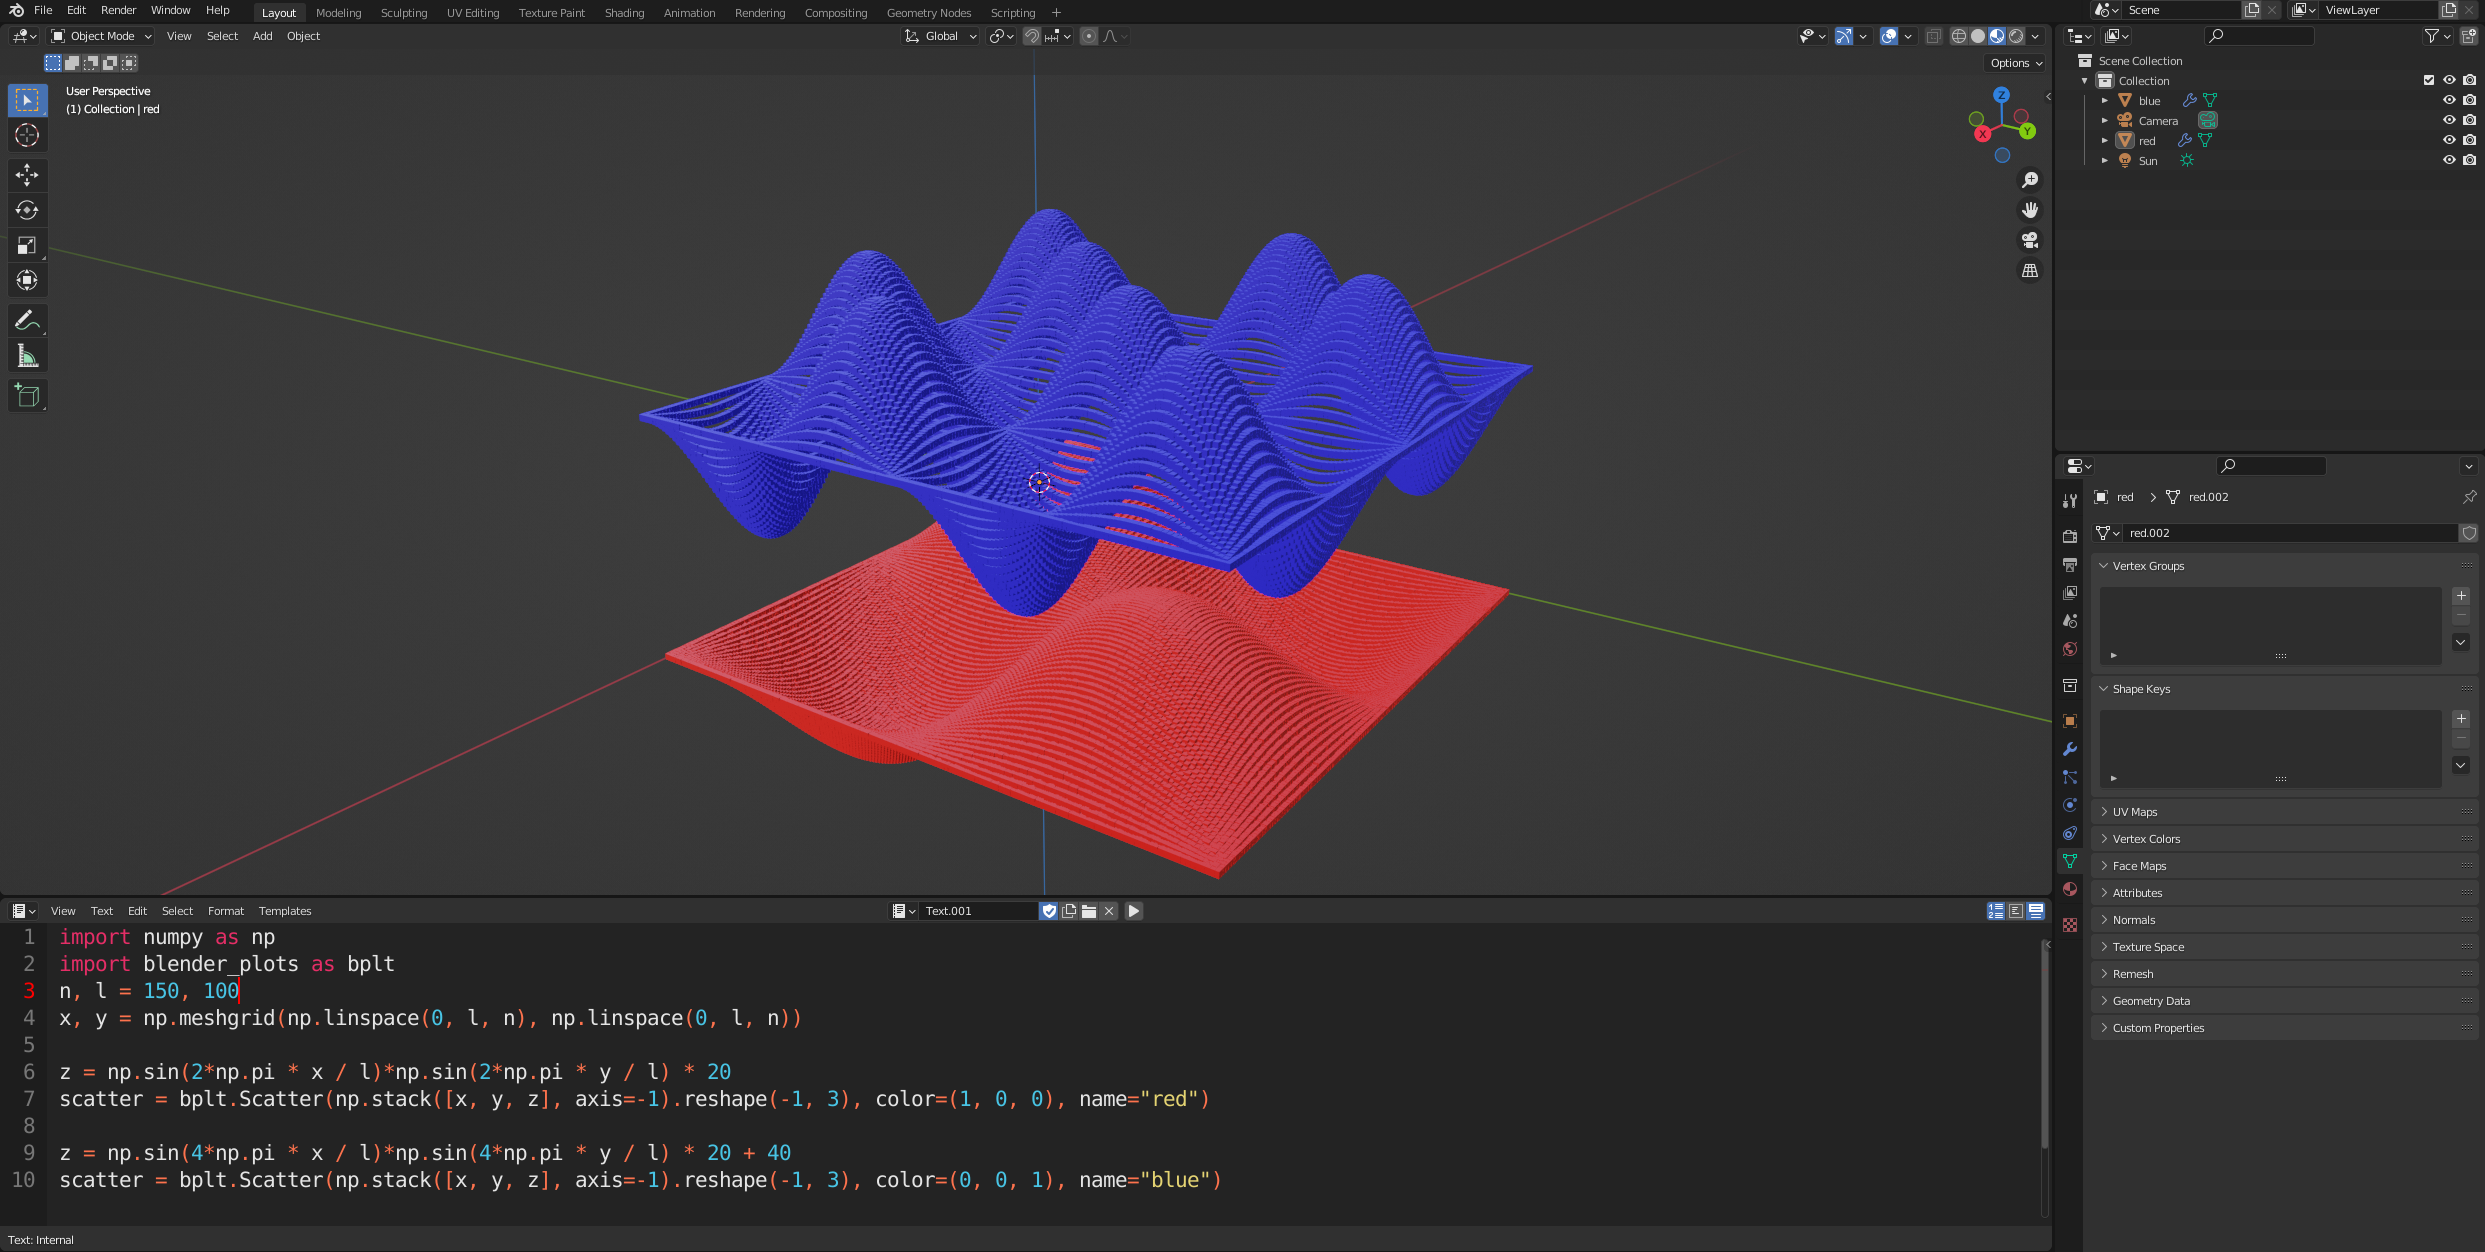
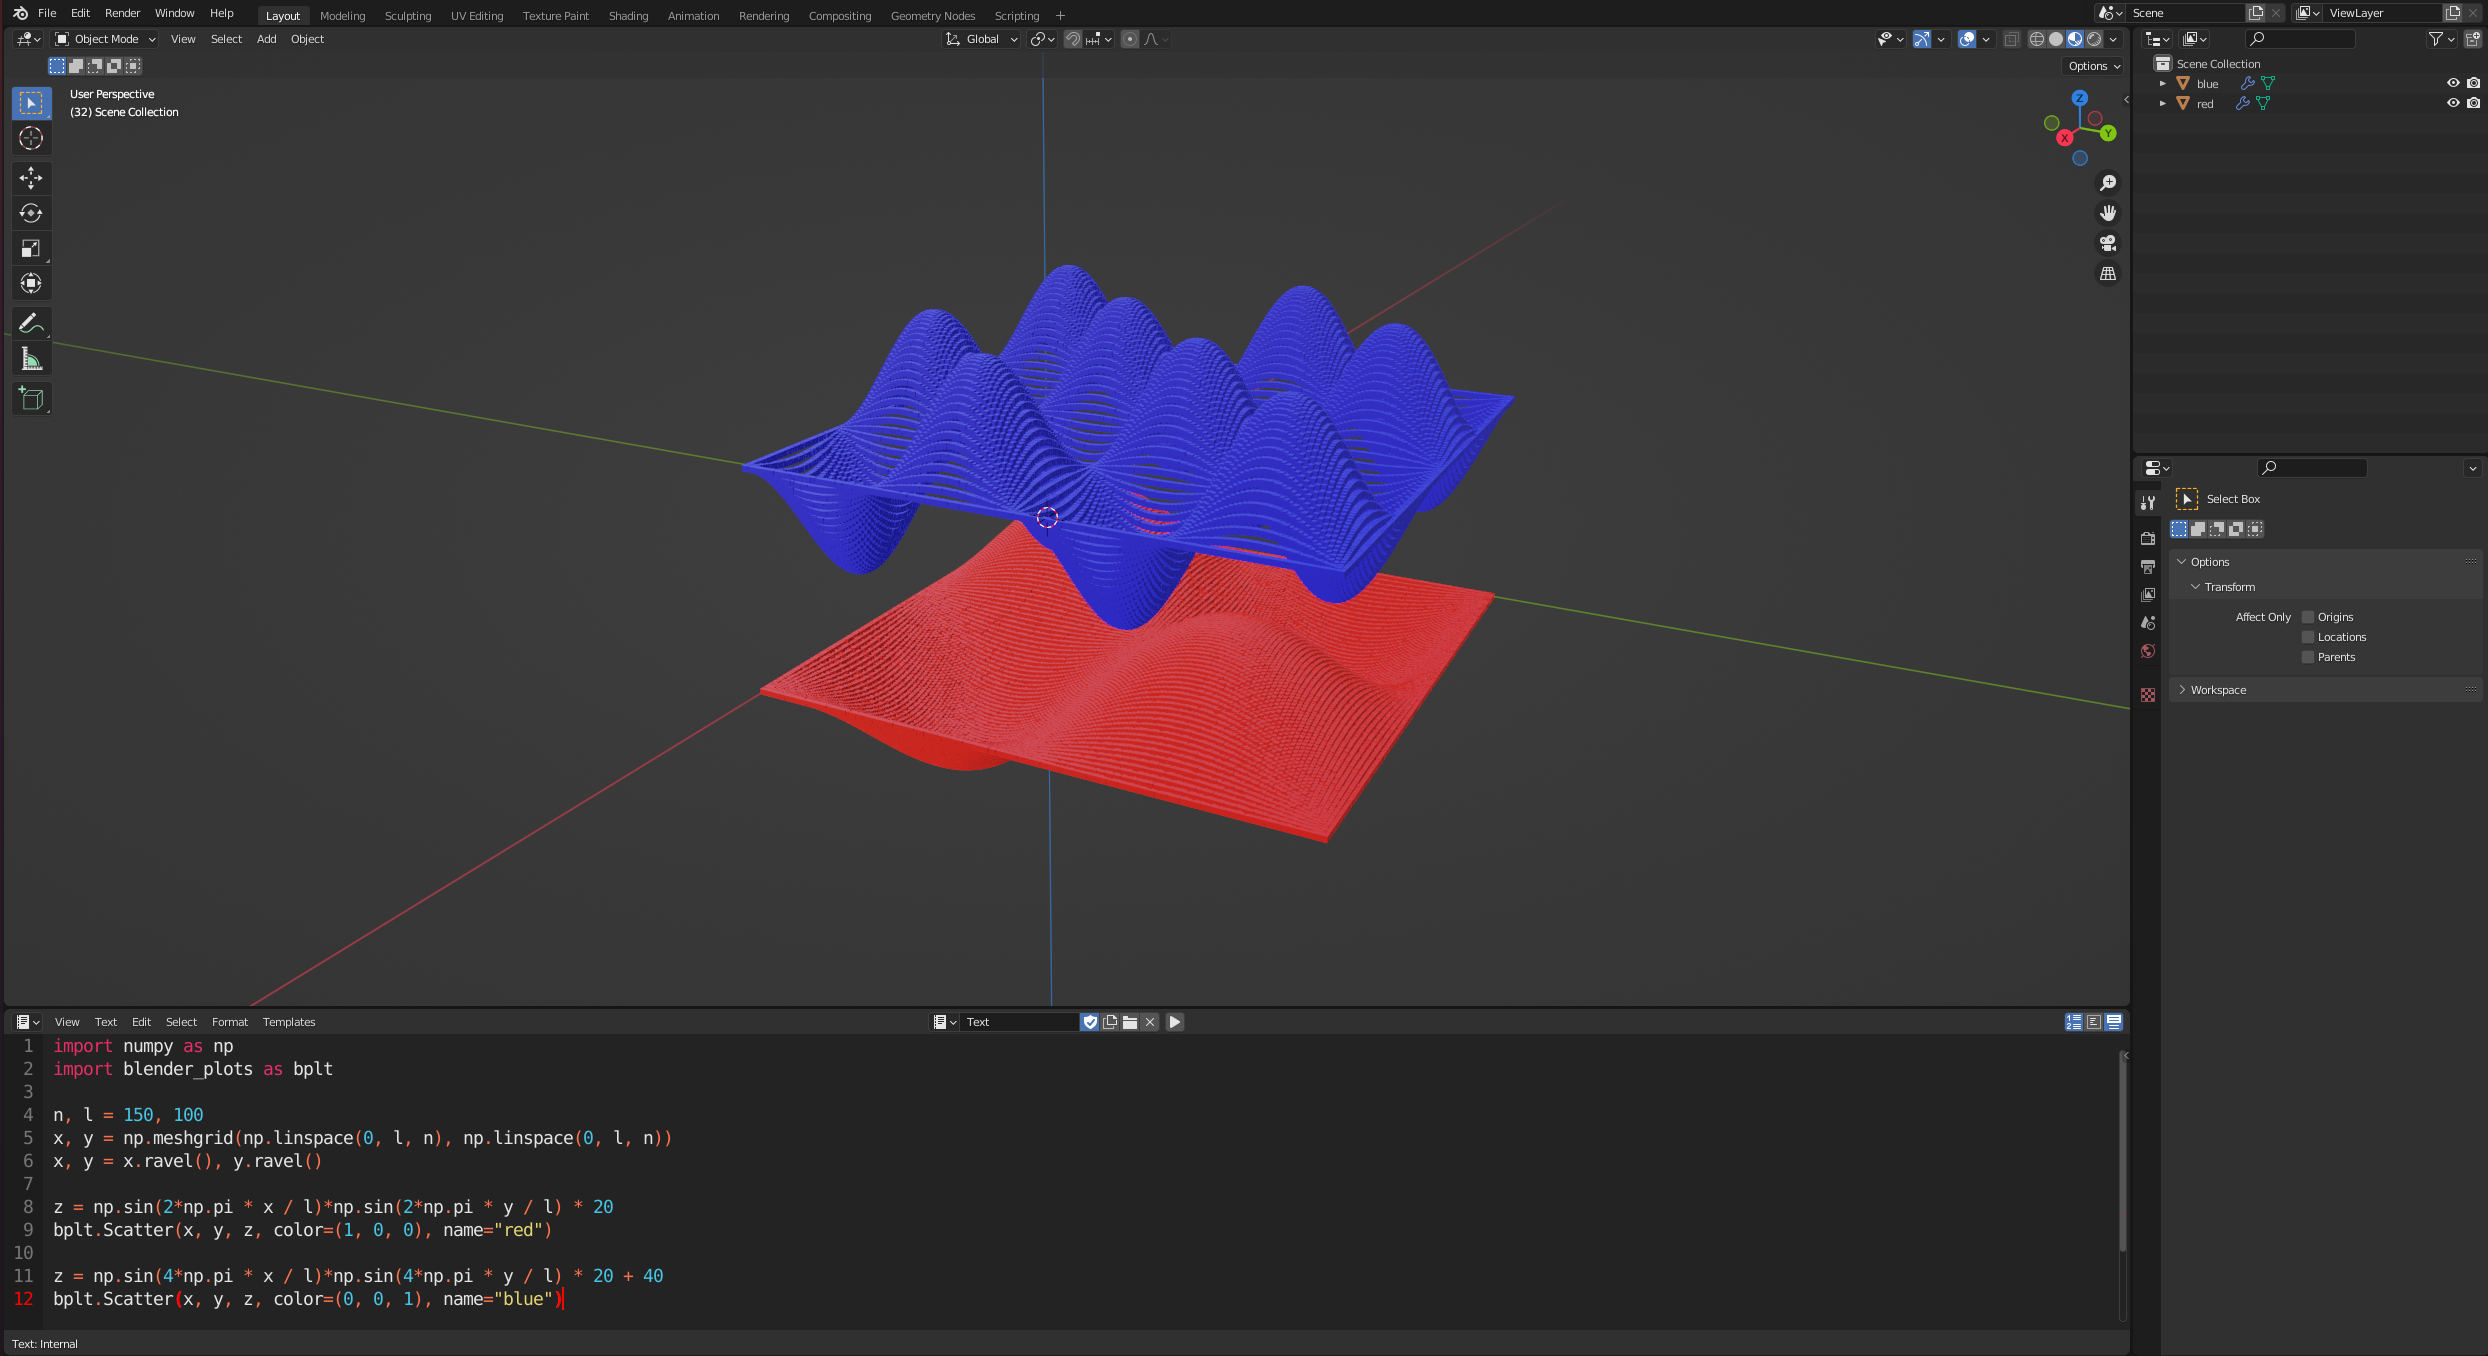
support providing x,y,z as separate input arguments

diff --git a/blender_plots/scatter.py b/blender_plots/scatter.py
@@ -21,7 +21,10 @@ class Scatter:
     """Create a scatterplot.
 
     Args:
-        points: Nx3 array with xyz positions for points to scatter, or TxNx3 for sequence of scatter plots to animate
+        x,y,z:
+            If y and z are not provided: expects x to be a Nx3 array with xyz positions for points to scatter, or TxNx3
+                for sequence of scatter plots to animate
+            if y and z are provided: expects x,y,z to be length N or TxN arrays for xyz coordinates respectively.
         color: Nx3 or Nx4 array or with RGB or RGBA values for each point, or a single RGB/RGBA-value
             (e.g. (1, 0, 0) for red) to apply to every point.
         name: name to use for blender object. Will delete any previous plot with the same name.
@@ -30,25 +33,14 @@ class Scatter:
         marker_kwargs: additional arguments for configuring markers
     """
 
-    def __init__(self, points, color=None, name="scatter", marker_type="cubes", marker_scale=None,
+    def __init__(self, x, y=None, z=None, color=None, name="scatter", marker_type="cubes", marker_scale=None,
                  randomize_rotation=False, **marker_kwargs):
         self.name = name
         self.base_object = None
         self.mesh = None
         self.color_material = None
-        self.animated = (points.ndim == 3)
 
-        match points.shape:
-            case (int(), int(), 3):
-                self.n_frames, self.n_points = points.shape[:2]
-            case (int(), 3):
-                self.n_frames, self.n_points = 0, points.shape[0]
-            case (3,):
-                points = points.reshape((1, 3))
-                self.n_frames, self.n_points = 0, 1
-            case _:
-                raise ValueError(f"Invalid input shape for points: {points.shape}")
-
+        points, self.n_frames, self.n_points = get_points_array(x, y, z)
         self.points = points
         if marker_type == "spheres":
             self.marker_modifier = add_sphere_markers(self.base_object, n_frames=self.n_frames, **marker_kwargs)
@@ -79,7 +71,7 @@ class Scatter:
         else:
             self.mesh.vertices.foreach_set("co", self._points.reshape(-1))
 
-        if self.n_frames > 0:
+        if self.n_frames is not None:
             set_vertex_attribute(
                 self.mesh, FRAME_INDEX,
                 np.arange(0, self.n_frames)[None].repeat(self.n_points, axis=1).reshape(-1)
@@ -106,16 +98,54 @@ class Scatter:
                 case (self.n_frames, self.n_points, 3 | 4):
                     color = self._color.reshape(self.n_frames * self.n_points, -1)
                 case (self.n_points, 3 | 4):
-                    color = np.tile(self._color, (self.n_frames, 1)) if self.n_frames > 0 else self._color
-                case (3 | 4,):
+                    color = np.tile(self._color, (self.n_frames, 1)) if self.n_frames is not None else self._color
+                case (3 | 4, ):
                     color = np.tile(self._color, (len(self.mesh.vertices), 1))
                 case _:
-                    raise ValueError(f"Invalid color shape: {self._color.shape} with {self.n_frames=}, {self.n_points=}")
+                    raise ValueError(
+                        f"Invalid color shape: {self._color.shape} with {self.n_frames=}, {self.n_points=}")
 
             set_vertex_colors(self.mesh, color)
             self.color_material = get_vertex_color_material()
             self.mesh.materials.append(self.color_material)
             self.marker_modifier["Input_2"] = self.color_material
+
+
+def get_points_array(x, y, z):
+    """Parses x,y,z to a Nx3 or NxTx3 array of points."""
+    if (y is None) and (z is None):
+        # only x provided, parse it as Nx3 or TxNx3
+        x = np.array(x)
+        match x.shape:
+            case (3, ):
+                points = x.reshape(1, 3)
+                n_frames, n_points = None, 1
+            case (n, 3, ):
+                points = x
+                n_frames, n_points = None, n
+            case (t, n, 3, ):
+                points = x
+                n_frames, n_points = t, n
+            case _:
+                raise ValueError(f"Invalid shape for points: {x.shape=}, expected Nx3 or TxNx3")
+    elif (y is not None) and (z is not None):
+        # parse x,y,z as N,N,N or TxN,TxN,TxN
+        x, y, z = np.array(x), np.array(y), np.array(z)
+        match x.shape, y.shape, z.shape:
+            case (), (), ():
+                points = np.array([x, y, z]).reshape(1, 3)
+                n_frames, n_points = None, 1
+            case (n, ), (m, ), (k, ) if n == m == k:
+                points = np.stack([x, y, z], axis=-1)
+                n_frames, n_points = None, n
+            case (t, n), (r, m), (s, k) if t == r == s and n == m == k:
+                points = np.stack([x, y, z], axis=-1)
+                n_frames, n_points = t, n
+            case _:
+                raise ValueError(f"Incompatible shapes: {x.shape=}, {y.shape=}, {z.shape=}")
+    else:
+        raise ValueError(f"Eiter both y and z needs to be provided, or neither")
+    return points, n_frames, n_points
 
 
 def set_vertex_attribute(mesh, attribute_name, attribute_values):
@@ -200,11 +230,10 @@ def add_mesh_markers(base_object, marker_type, randomize_rotation=False, marker_
         material=node_linker.group_input.outputs["Point Color"]
     ).outputs["Geometry"]
 
-    frame_selection_socket = get_frame_selection_node(modifier, n_frames).outputs["Value"] if n_frames > 0 else None
     instance_on_points_node = node_linker.new_node(
         "GeometryNodeInstanceOnPoints",
         points=points_socket,
-        selection=frame_selection_socket,
+        selection=None if n_frames is None else get_frame_selection_node(modifier, n_frames).outputs["Value"],
         instance=colored_mesh,
         scale=marker_scale
     )
@@ -241,7 +270,7 @@ def add_sphere_markers(base_object, n_frames, **marker_kwargs):
     points = node_linker.new_node(
         "GeometryNodeMeshToPoints",
         mesh=node_linker.group_input.outputs["Geometry"],
-        selection=get_frame_selection_node(modifier, n_frames).outputs["Value"] if n_frames > 0 else None,
+        selection=None if n_frames is None else get_frame_selection_node(modifier, n_frames).outputs["Value"],
         **marker_kwargs,
     ).outputs["Points"]
     node = node_linker.new_node(

diff --git a/README.md b/README.md
@@ -12,7 +12,6 @@ making plots. It currently supports scatterplots through `bplt.Scatter`.
 
 ![out_15fps_v3_loop](https://user-images.githubusercontent.com/12471058/175826002-dc6ba8d5-a1c1-4b27-ae64-fc8085e46958.gif)
 
-
 ## Getting started
 
 * Install the addon:
@@ -31,43 +30,45 @@ for advanced use-cases.
 
 ### Plotting functions
 
-For now all the plotting is done through `bplt.Scatter` which expects an `Nx3` numpy array of xyz coordinates and
-optionally an `Nx3` or `Nx4` numpy array with RGB or RGBA color values.
+For now all the plotting is done through `bplt.Scatter` which expects three arrays x, y, z with the same length `N`
+containing coordinates to plot (or equivalently a single `Nx3` array as the first argument). Color can also be set using
+the `color=` argument, which expects a`Nx3` or `Nx4` numpy array with RGB or RGBA color values. Passing in a single RGB
+or RGBA value sets the same color for all points.
 
 ```
 import numpy as np
 import blender_plots as bplt
 n, l = 150, 100
 x, y = np.meshgrid(np.linspace(0, l, n), np.linspace(0, l, n))
+x, y = x.ravel(), y.ravel()
 
 z = np.sin(2*np.pi * x / l)*np.sin(2*np.pi * y / l) * 20
-scatter = bplt.Scatter(np.stack([x, y, z], axis=-1).reshape(-1, 3), color=(1, 0, 0), name="red")
+bplt.Scatter(x, y, z, color=(1, 0, 0), name="red")
 
 z = np.sin(4*np.pi * x / l)*np.sin(4*np.pi * y / l) * 20 + 40
-scatter = bplt.Scatter(np.stack([x, y, z], axis=-1).reshape(-1, 3), color=(0, 0, 1), name="blue")
+bplt.Scatter(x, y, z, color=(0, 0, 1), name="blue")
 ```
 
 ![image info](./images/sinusoids_editor.png)
 
 ### Animations
-To get an animated plot, just pass in a `TxNx3` array of xyz coordinates instead:
+
+To get an animated plot, just pass in x, y, z as `TxN` arrays instead (or `TxNx3` as the first argument):
+
 ```
 # plot animated function
 n, l, T = 150, 100, 100
 t, x, y = np.meshgrid(np.arange(0, T), np.linspace(0, l, n), np.linspace(0, l, n), indexing='ij')
+t, x, y = t.reshape((T, -1)), x.reshape((T, -1)), y.reshape((T, -1))
 
 z = np.sin(2*np.pi * x / l) * np.sin(2*np.pi * y / l) * np.sin(2*np.pi * t / T) * 20
-scatter = bplt.Scatter(np.stack([x, y, z], axis=-1).reshape(T, n*n, 3), color=(1, 0, 0), name="red")
+bplt.Scatter(x, y, z, color=(1, 0, 0), name="red")
 
 z = np.sin(4*np.pi * x / l) * np.sin(4*np.pi * y / l) * np.sin(8*np.pi * t / T) * 20 + 40
-scatter = bplt.Scatter(np.stack([x, y, z], axis=-1).reshape(T, n*n, 3), color=(0, 0, 1), name="blue")
+bplt.Scatter(x, y, z, color=(0, 0, 1), name="blue")
 ```
 
-
 https://user-images.githubusercontent.com/12471058/175827154-f2788971-78d3-4778-937a-5d0ff30af7fd.mp4
-
-
-
 
 ### Visualizing point clouds
 
